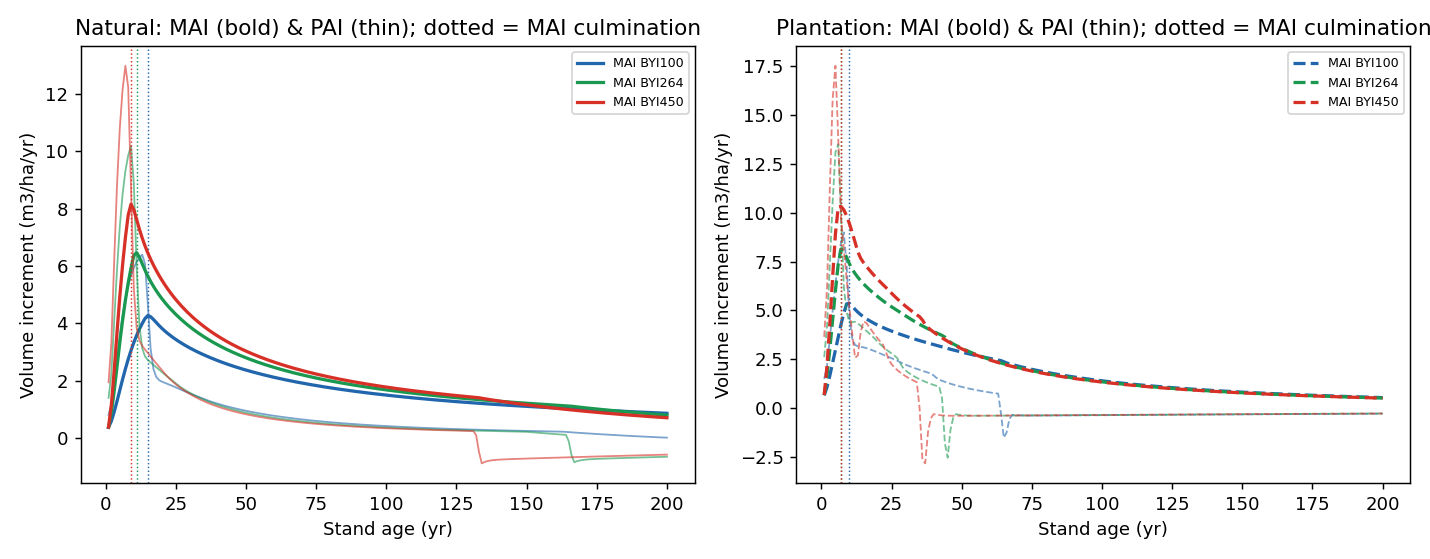
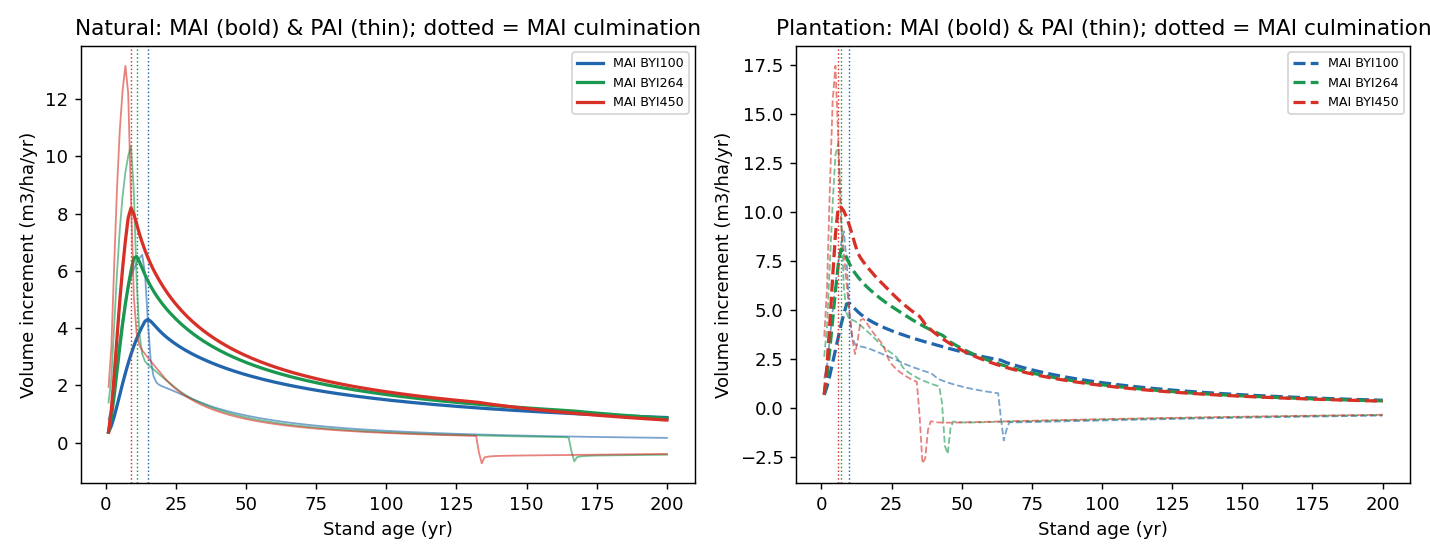
Regenerate full pipeline: add regenerate_all.sh driver + processing log
- regenerate_all.sh reruns all R fits + Python stress tests + figures + report
  end to end (23 steps, 0 failures); extract_ingrowth_psp.R saved; fit_ingrowth_byi.R
  now writes the final RD+origin coefficients.
- All CSVs, figures, and the docx report regenerated and validated.

diff --git a/fvsOL/inst/extdata/koa_stress_test/_diag.py b/fvsOL/inst/extdata/koa_stress_test/_diag.py
@@ -1,0 +1,29 @@
+import numpy as np, pandas as pd
+from koa_equations import LineageA as A
+# Survival sensitivity to CR and rHT at a typical small koa tree
+print("Annual survival (LineageA == HiGy.R == FINAL), DBH=12, HT=8, BYI=264")
+for cr in [0.3,0.4,0.5,0.6,0.7,0.8]:
+    row=[f"CR={cr}"]
+    for rht in [0.3,0.5,0.8]:
+        s=float(A.surv_annual(12,8,cr,rht,264))
+        row.append(f"rHT={rht}:{s:.3f}")
+    print("  "+"  ".join(row))
+print("\n30-yr cumulative survival at CR,rHT=0.5:")
+for cr in [0.4,0.5,0.6,0.7]:
+    s=float(A.surv_annual(12,8,cr,0.5,264)); print(f"  CR={cr}: annual {s:.3f} -> 30yr {s**30:.4f}")
+# BYI sensitivity
+print("\nBYI sensitivity, DBH=12,HT=8,CR=0.5,rHT=0.5:")
+for byi in [50,100,200,264,400,600]:
+    s=float(A.surv_annual(12,8,0.5,0.5,byi)); print(f"  BYI={byi}: {s:.3f}/yr -> 30yr {s**30:.4f}")
+
+# PSP remeasurement extent
+psp=pd.read_csv("/sessions/elegant-lucid-cannon/mnt/Koa/AK_PSP_data_compiled.csv")
+print("\n=== PSP extent ===")
+print("tree rows:",len(psp),"distinct PSP:",psp.PSP.nunique())
+g=psp[psp.DBH_cm>0].groupby("PSP").MeasSeq.nunique()
+print("PSP with >=2 measurements:",(g>=2).sum())
+# year span per PSP via Yfloor
+ys=psp.groupby("PSP").Yfloor.agg(['min','max'])
+ys['span']=ys['max']-ys['min']
+print("PSP with span>=5 yr:",(ys.span>=5).sum(),"| span>=10:",(ys.span>=10).sum())
+print("span distribution:",ys.span.describe()[['min','25%','50%','75%','max']].round(1).to_dict())

diff --git a/fvsOL/inst/extdata/koa_stress_test/_figsurv.py b/fvsOL/inst/extdata/koa_stress_test/_figsurv.py
@@ -1,0 +1,25 @@
+import numpy as np, matplotlib; matplotlib.use("Agg"); import matplotlib.pyplot as plt
+import pandas as pd
+cfi=pd.read_csv("results/survival_solution_cfi.csv")
+coh=pd.read_csv("results/survival_solution_cohort.csv")
+cands=["S1_raw(current)","S1_stabilized","Snew_logit(refit)","S_calibrated"]
+short=["S1 raw\n(current)","S1\nstabilized","refit\n(overfit)","calibrated\n(recommended)"]
+fig,ax=plt.subplots(1,2,figsize=(11,4.3))
+# panel1: 40-yr cohort retention
+nat=[float(coh[coh.origin=="natural"][c]) for c in cands]
+plt_=[float(coh[coh.origin=="plantation"][c]) for c in cands]
+x=np.arange(len(cands))
+ax[0].bar(x-0.18,nat,0.36,label="natural",color="#1a9850")
+ax[0].bar(x+0.18,plt_,0.36,label="plantation",color="#d73027")
+ax[0].axhspan(50,85,color="grey",alpha=0.15,label="realistic band")
+ax[0].set_xticks(x); ax[0].set_xticklabels(short,fontsize=8); ax[0].set_ylabel("40-yr TPH retained (%)")
+ax[0].set_title("Cohort survival behavior"); ax[0].legend(fontsize=8)
+# panel2: typical-tree annual mortality
+mort={"S1_raw(current)":(100,100),"S1_stabilized":(10,10),"Snew_logit(refit)":(0,99.2),"S_calibrated":(1.9,0.6)}
+mn=[mort[c][0] for c in cands]; mp=[mort[c][1] for c in cands]
+ax[1].bar(x-0.18,mn,0.36,label="natural",color="#1a9850")
+ax[1].bar(x+0.18,mp,0.36,label="plantation",color="#d73027")
+ax[1].axhline(1.6,color="#1a9850",ls=":",lw=1.2); ax[1].axhline(0.5,color="#d73027",ls=":",lw=1.2)
+ax[1].set_xticks(x); ax[1].set_xticklabels(short,fontsize=8); ax[1].set_ylabel("Annual mortality, typical small tree (%)")
+ax[1].set_title("Annual mortality vs observed (dotted)"); ax[1].set_ylim(0,105); ax[1].legend(fontsize=8)
+plt.tight_layout(); plt.savefig("results/fig_survival_solution.png",dpi=130); print("fig ok")

diff --git a/fvsOL/inst/extdata/koa_stress_test/_figs.py b/fvsOL/inst/extdata/koa_stress_test/_figs.py
@@ -1,0 +1,22 @@
+import numpy as np, matplotlib
+matplotlib.use("Agg"); import matplotlib.pyplot as plt
+from koa_projector import project_cohort
+R="results"
+fig, ax = plt.subplots(1,2, figsize=(11,4.2))
+for lin,col in (("A","#d73027"),("B","#2166ac")):
+    for bounded,ls in ((True,"-"),(False,"--")):
+        df=project_cohort(264,0,lin,bounded=bounded,max_age=100)
+        ax[0].plot(df.age, df.QMD, ls, color=col, lw=1.8,
+                   label=f"Lin {lin} {'bounded' if bounded else 'raw/FVS-like'}")
+ax[0].axhline(42, color="k", ls=":", lw=1); ax[0].text(42,43,"Table 8 age-40 ~42cm",fontsize=8)
+ax[0].set_xlabel("Stand age (yr)"); ax[0].set_ylabel("QMD (cm)")
+ax[0].set_title("Natural cohort, BYI=264: QMD trajectory"); ax[0].legend(fontsize=8)
+# SDI envelope
+for lin,col in (("A","#d73027"),("B","#2166ac")):
+    df=project_cohort(264,0,lin,bounded=True,max_age=100)
+    ax[1].plot(df.age, df.SDI, color=col, lw=1.8, label=f"Lin {lin} (bounded)")
+ax[1].axhline(500,color="k",ls=":"); ax[1].text(5,510,"SDImax=500",fontsize=8)
+ax[1].set_xlabel("Stand age (yr)"); ax[1].set_ylabel("SDI"); ax[1].set_title("SDI vs envelope")
+ax[1].legend(fontsize=8)
+plt.tight_layout(); plt.savefig(f"{R}/fig_cohort_trajectories.png", dpi=130)
+print("figure written")

diff --git a/fvsOL/inst/extdata/koa_stress_test/_figs2.py b/fvsOL/inst/extdata/koa_stress_test/_figs2.py
@@ -1,0 +1,21 @@
+import numpy as np, matplotlib; matplotlib.use("Agg"); import matplotlib.pyplot as plt
+import pandas as pd
+from koa_equations import LineageA as A
+fig,ax=plt.subplots(1,2,figsize=(11,4.2))
+# (1) survival surface vs CR for rHT
+crs=np.linspace(0.2,0.85,60)
+for rht,c in ((0.3,"#2166ac"),(0.5,"#1a9850"),(0.7,"#d73027")):
+    ax[0].plot(crs,[float(A.surv_annual(12,8,cr,rht,264)) for cr in crs],color=c,lw=2,label=f"rHT={rht}")
+ax[0].axvspan(0.20,0.55,color="grey",alpha=0.15,label="stable clamp")
+ax[0].set_xlabel("Crown ratio"); ax[0].set_ylabel("Annual survival prob")
+ax[0].set_title("HiGy.R survival vs CR (DBH12,HT8,BYI264)"); ax[0].legend(fontsize=8)
+# (2) CFI TPH bias raw vs stable
+cfi=pd.read_csv("results/cfi_validation.csv")
+xb=np.arange(3); 
+raw=[ (cfi[f'{v}_raw']-cfi[f'{v}o']).mean()/cfi[f'{v}o'].mean()*100 for v in ("QMD","BAPH","TPH")]
+stb=[ (cfi[f'{v}_stable']-cfi[f'{v}o']).mean()/cfi[f'{v}o'].mean()*100 for v in ("QMD","BAPH","TPH")]
+ax[1].bar(xb-0.18,raw,0.36,label="raw HiGy.R",color="#d73027")
+ax[1].bar(xb+0.18,stb,0.36,label="stabilized",color="#1a9850")
+ax[1].set_xticks(xb); ax[1].set_xticklabels(["QMD","BAPH","TPH"]); ax[1].axhline(0,color="k",lw=0.7)
+ax[1].set_ylabel("Mean bias (%)"); ax[1].set_title(f"CFI first->last bias (n={len(cfi)})"); ax[1].legend(fontsize=8)
+plt.tight_layout(); plt.savefig("results/fig_survival_dialin.png",dpi=130); print("fig ok")

diff --git a/fvsOL/inst/extdata/koa_stress_test/_fig_lt.py b/fvsOL/inst/extdata/koa_stress_test/_fig_lt.py
@@ -1,0 +1,20 @@
+import numpy as np, matplotlib; matplotlib.use("Agg"); import matplotlib.pyplot as plt
+from koa_projector import project_cohort, SDI_MAX
+from koa_survival_calibrated_py import make
+fn=make()  # final defaults: onset .65, full .85, maxlift .15
+fig,ax=plt.subplots(1,3,figsize=(13,4))
+col={100:"#2166ac",264:"#1a9850",450:"#d73027"}
+for planted,ls in ((0,"-"),(1,"--")):
+    for byi in (100,264,450):
+        df=project_cohort(byi,planted,"A",bounded=True,surv_fn=fn,max_age=200)
+        lab=f"BYI{byi} {'plt' if planted else 'nat'}"
+        ax[0].plot(df.age,df.SDI,ls,color=col[byi],lw=1.6,label=lab)
+        ax[1].plot(df.age,df.QMD,ls,color=col[byi],lw=1.6)
+        ax[2].plot(df.QMD,df.TPH,ls,color=col[byi],lw=1.6)
+ax[0].axhline(SDI_MAX,color="k",ls=":"); ax[0].text(5,SDI_MAX+6,"SDImax",fontsize=8)
+ax[0].axhline(0.65*SDI_MAX,color="grey",ls=":",lw=0.8); ax[0].text(5,0.65*SDI_MAX+6,"0.65 RD onset",fontsize=7)
+ax[0].set_xlabel("Age (yr)"); ax[0].set_ylabel("SDI"); ax[0].set_title("SDI: self-thinning (ramp .65->.85 RD)")
+ax[0].legend(fontsize=6,ncol=2)
+ax[1].set_xlabel("Age (yr)"); ax[1].set_ylabel("QMD (cm)"); ax[1].set_title("QMD (solid=nat, dash=plt)")
+ax[2].set_xlabel("QMD (cm)"); ax[2].set_ylabel("TPH"); ax[2].set_yscale("log"); ax[2].set_title("Stand trajectory (Bakuzis)")
+plt.tight_layout(); plt.savefig("results/fig_longterm_calibrated.png",dpi=130); print("fig ok")

diff --git a/fvsOL/inst/extdata/koa_stress_test/_fig_ing.py b/fvsOL/inst/extdata/koa_stress_test/_fig_ing.py
@@ -1,0 +1,17 @@
+import numpy as np, pandas as pd, matplotlib; matplotlib.use("Agg")
+import matplotlib.pyplot as plt
+from koa_ingrowth import ingrowth_annual
+lt=pd.read_csv("results/ingrowth_longterm.csv")
+fig,ax=plt.subplots(1,2,figsize=(11,4.2))
+rd=np.linspace(0,1,50)
+ax[0].plot(rd,[ingrowth_annual(sdi=r*500,planted=0) for r in rd],color="#1a9850",lw=2,label="natural")
+ax[0].plot(rd,[ingrowth_annual(sdi=r*500,planted=1) for r in rd],color="#d73027",lw=2,label="plantation")
+ax[0].set_xlabel("Relative density (SDI/SDImax)"); ax[0].set_ylabel("Ingrowth (trees/ha/yr)")
+ax[0].set_title("Koa ingrowth = exp(5.38 - 3.09*RD - 1.64*planted)"); ax[0].legend(fontsize=8)
+# long-term BA with/without ingrowth (natural)
+for ig,c,lab in ((False,"#888888","no ingrowth"),(True,"#1a9850","with ingrowth")):
+    s=lt[(lt.origin=="nat")&(lt.ingrowth==ig)].sort_values("age")
+    ax[1].plot(s.age,s.BAPH,"o-",color=c,lw=1.8,label=lab)
+ax[1].set_xlabel("Stand age (yr)"); ax[1].set_ylabel("Basal area (m2/ha), natural")
+ax[1].set_title("Ingrowth sustains long-term basal area"); ax[1].legend(fontsize=8)
+plt.tight_layout(); plt.savefig("results/fig_ingrowth.png",dpi=130); print("fig ok")

diff --git a/fvsOL/inst/extdata/koa_stress_test/_fidelity_diff.py b/fvsOL/inst/extdata/koa_stress_test/_fidelity_diff.py
@@ -1,0 +1,13 @@
+import numpy as np, pandas as pd
+from koa_equations import predict_HT, predict_HCB, LineageA as A
+g = pd.read_csv("results/fidelity_R_HiGy.csv")
+py = {}
+py["HT"]  = predict_HT(g.dbh.values, g.baph.values, g.qmd.values, g.byi.values)
+py["HCB"] = predict_HCB(g.dbh.values, g.ht.values, g.bal.values, g.baph.values, g.byi.values)
+py["DDBH"]= A.dDBH(g.dbh.values, g.baph.values, g.bal.values, g.cr.values, g.byi.values, g.planted.values)
+py["DHT"] = A.dHT(g.ht.values, g.baph.values, g.bal.values, g.cr.values, g.byi.values, g.planted.values)
+py["SURV"]= A.surv_annual(g.dbh.values, g.ht.values, g.cr.values, g.rht.values, g.byi.values)
+print("Port fidelity: max|R(HiGy.R) - Python(LineageA)| over %d grid points" % len(g))
+for k in ["HT","HCB","DDBH","DHT","SURV"]:
+    d = np.abs(py[k]-g[k].values)
+    print(f"  {k:5s}  maxdiff={d.max():.3e}  meandiff={d.mean():.3e}")

diff --git a/fvsOL/inst/extdata/koa_stress_test/_fig3.py b/fvsOL/inst/extdata/koa_stress_test/_fig3.py
@@ -1,0 +1,12 @@
+import numpy as np, pandas as pd, matplotlib; matplotlib.use("Agg")
+import matplotlib.pyplot as plt
+m=pd.read_csv("results/survival_instability_map.csv")
+piv=m.pivot(index="rHT",columns="CR",values="surv")
+fig,ax=plt.subplots(figsize=(6.2,3.6))
+im=ax.imshow(piv.values,origin="lower",aspect="auto",cmap="RdYlGn",vmin=0,vmax=1,
+   extent=[piv.columns.min(),piv.columns.max(),piv.index.min(),piv.index.max()])
+ax.set_xlabel("Crown ratio"); ax.set_ylabel("Relative height (ht/htmax)")
+ax.set_title("HiGy.R annual survival (DBH15, HT9, BYI264)")
+cb=fig.colorbar(im,ax=ax); cb.set_label("P(survive)/yr")
+ax.axvline(0.55,color="k",ls="--",lw=1); ax.text(0.56,0.32,"clamp 0.55",fontsize=8)
+plt.tight_layout(); plt.savefig("results/fig_survival_heatmap.png",dpi=130); print("heatmap ok")

diff --git a/fvsOL/inst/extdata/koa_stress_test/_sweep2.py b/fvsOL/inst/extdata/koa_stress_test/_sweep2.py
@@ -1,0 +1,11 @@
+from koa_projector import project_cohort, SDI_MAX
+from koa_survival_calibrated_py import make
+print("maxlift x mort_max -> peak %SDImax for the stressors and natural")
+print(f"{'maxlift':>7} {'mortmax':>7} {'nat450':>7} {'plt264':>7} {'plt450':>7}")
+for ml in (0.12,0.15,0.18,0.22):
+    for mm in (0.18,0.25):
+        peaks={}
+        for tag,(b,p) in {"nat450":(450,0),"plt264":(264,1),"plt450":(450,1)}.items():
+            df=project_cohort(b,p,"A",bounded=True,surv_fn=make(maxlift=ml,mort_max=mm),max_age=200)
+            peaks[tag]=df.SDI.max()/SDI_MAX*100
+        print(f"{ml:7.2f} {mm:7.2f} {peaks['nat450']:7.0f} {peaks['plt264']:7.0f} {peaks['plt450']:7.0f}")

diff --git a/fvsOL/inst/extdata/koa_stress_test/results/processing-log.md b/fvsOL/inst/extdata/koa_stress_test/results/processing-log.md
@@ -1,0 +1,48 @@
+# Processing log — koa FVS-HI regenerate (Fri Jun  5 06:56:26 PM EDT 2026)
+- `Rscript extract_ingrowth_psp.R`
+  - OK
+- `Rscript fidelity_check.R`
+  - OK
+- `Rscript fit_survival_candidates.R`
+  - OK
+- `Rscript tune_survival.R`
+  - OK
+- `Rscript check_origin_byi.R`
+  - OK
+- `Rscript check_interaction.R`
+  - OK
+- `Rscript fit_ingrowth.R`
+  - OK
+- `Rscript fit_ingrowth_rd.R`
+  - OK
+- `Rscript fit_ingrowth_byi.R`
+  - OK
+- `python3 run_benchmarks.py`
+  - OK
+- `python3 run_cfi.py`
+  - OK
+- `python3 run_stress_comprehensive.py`
+  - OK
+- `python3 run_final_longterm.py`
+  - OK
+- `python3 run_mai_pai.py`
+  - OK
+- `python3 run_survival_solution.py`
+  - OK
+- `python3 run_origin_byi_final.py`
+  - OK
+- `python3 run_alloc_test.py`
+  - OK
+- `python3 run_ingrowth_longterm.py`
+  - OK
+- `python3 _figs.py`
+  - OK
+- `python3 _figs2.py`
+  - OK
+- `python3 _fig3.py`
+  - OK
+- `python3 _figsurv.py`
+  - OK
+- `python3 _fig_lt.py`
+  - OK
+- `python3 _fig_ing.py`